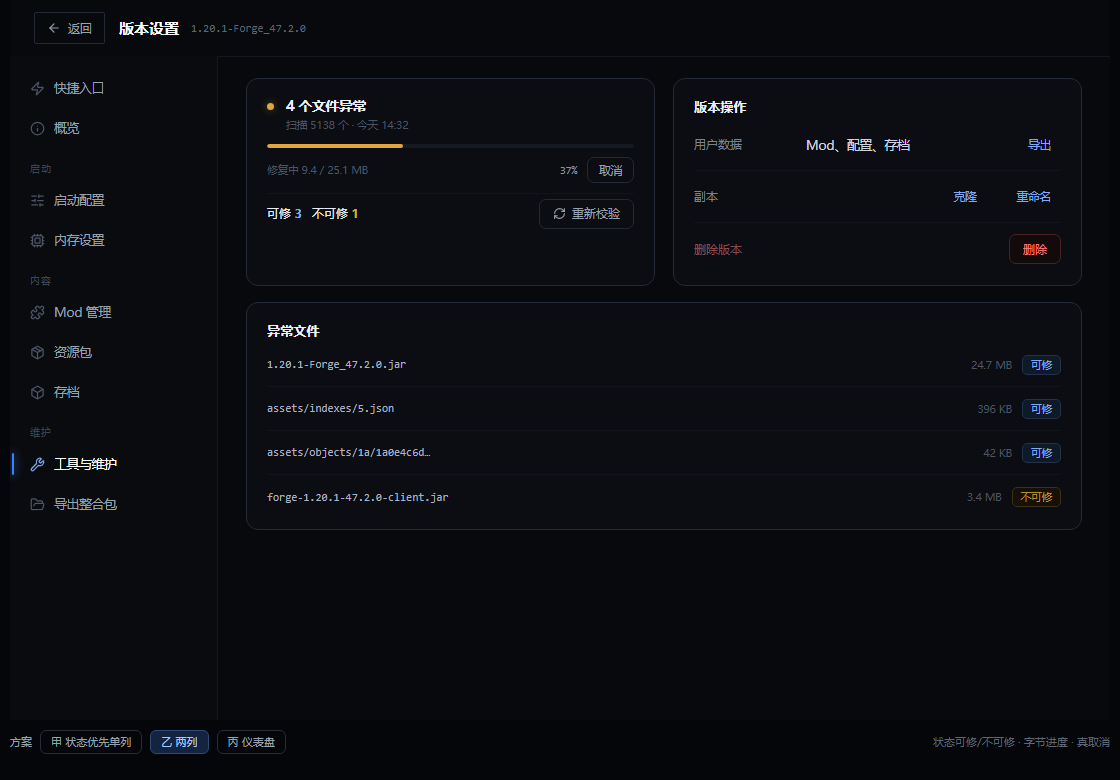
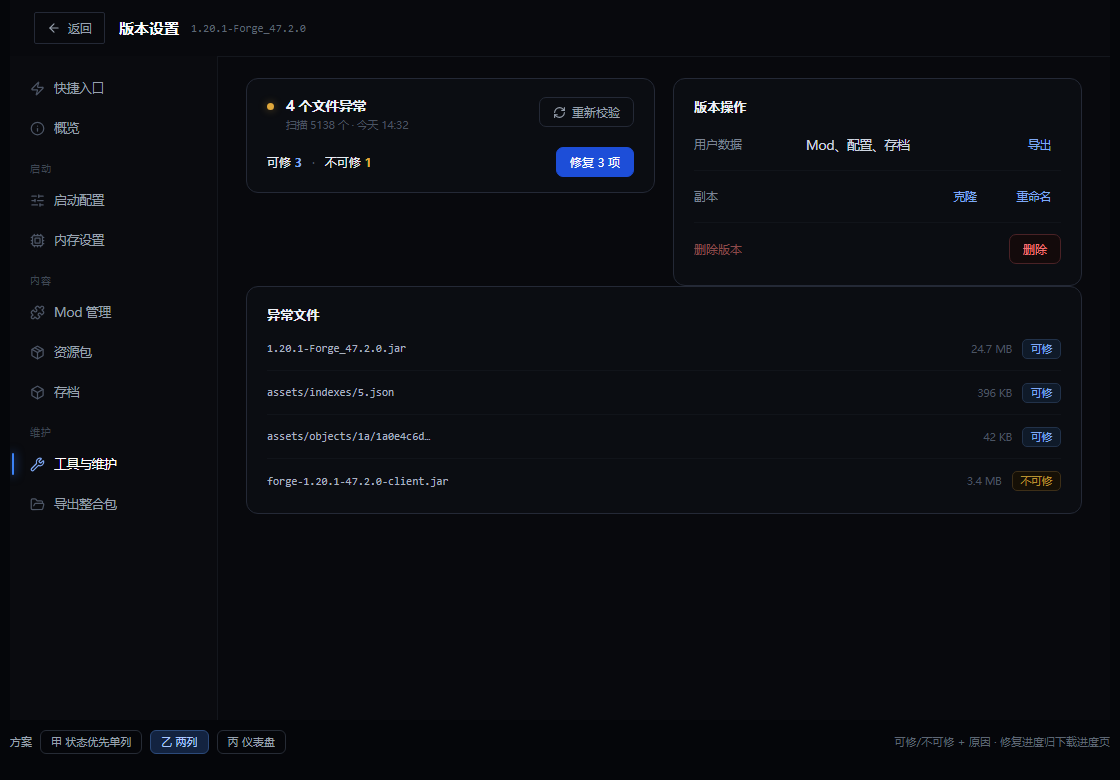
design(vs): 工具与维护页不画修复进度——进度归下载进度页，本页只留状态、异常清单与动作

diff --git a/design/vs-page/tools.html b/design/vs-page/tools.html
@@ -113,9 +113,7 @@ button{font:inherit;color:inherit;background:none;border:0;cursor:pointer;text-a
 .btn.danger{border-color:#4a2226;color:#f07474;background:#130a0b}
 .btn.danger:hover{background:#1d0f11;border-color:#5c2a30}
 .card{margin-bottom:16px}
-/* 乙案两列：卡片随列等高，边框底边对齐 */
-.pb .cols > div{display:flex;flex-direction:column}
-.pb .cols > div > .card{flex:1;margin-bottom:16px}
+
 .prog{margin:2px 0 10px}
 .pbar{height:4px;border-radius:2px;background:#151a22;overflow:hidden}
 .pbar i{display:block;height:100%;border-radius:2px;background:var(--accent);transition:width .2s}
@@ -211,14 +209,7 @@ button{font:inherit;color:inherit;background:none;border:0;cursor:pointer;text-a
       <span class="val">可修复 <b style="color:#7fa9f5">3</b></span>
       <span class="val" style="color:#4b5462">·</span>
       <span class="val">不可修复 <b style="color:#e0a83c">1</b></span>
-    </div>
-    <div class="prog">
-      <div class="pbar amber"><i style="width:37%"></i></div>
-      <div class="prog-meta">
-        <span>9.4 MB / 25.1 MB</span>
-        <span class="mono">37%</span>
-        <button class="btn mini">取消</button>
-      </div>
+      <button class="btn primary" style="margin-left:auto">修复 3 项</button>
     </div>
   </div>
 
@@ -245,7 +236,7 @@ button{font:inherit;color:inherit;background:none;border:0;cursor:pointer;text-a
 </div></div>
 
 <div class="pn pb"><div class="scroll">
-  <div class="cols" style="align-items:stretch">
+  <div class="cols">
     <div>
       <div class="card">
         <div class="shd">
@@ -254,22 +245,16 @@ button{font:inherit;color:inherit;background:none;border:0;cursor:pointer;text-a
             <div class="shd-1">4 个文件异常</div>
             <div class="shd-2">扫描 5138 个 · 今天 14:32</div>
           </div>
-        </div>
-        <div class="prog">
-          <div class="pbar amber"><i style="width:37%"></i></div>
-          <div class="prog-meta">
-            <span>修复中 9.4 / 25.1 MB</span>
-            <span class="mono">37%</span>
-            <button class="btn mini">取消</button>
-          </div>
-        </div>
-        <div class="pb-cap" style="border-top:1px solid #11141a">
-          <span class="val">可修 <b style="color:#7fa9f5">3</b></span>
-          <span class="val">不可修 <b style="color:#e0a83c">1</b></span>
-          <button class="btn" style="margin-left:auto"><svg class="i" viewBox="0 0 24 24" fill="none" stroke="currentColor" stroke-width="2" stroke-linecap="round" stroke-linejoin="round"><path d="M3 12a9 9 0 0 1 9-9 9.75 9.75 0 0 1 6.74 2.74L21 8" />
+          <button class="btn"><svg class="i" viewBox="0 0 24 24" fill="none" stroke="currentColor" stroke-width="2" stroke-linecap="round" stroke-linejoin="round"><path d="M3 12a9 9 0 0 1 9-9 9.75 9.75 0 0 1 6.74 2.74L21 8" />
   <path d="M21 3v5h-5" />
   <path d="M21 12a9 9 0 0 1-9 9 9.75 9.75 0 0 1-6.74-2.74L3 16" />
   <path d="M8 16H3v5" /></svg>重新校验</button>
+        </div>
+        <div class="pb-cap">
+          <span class="val">可修 <b style="color:#7fa9f5">3</b></span>
+          <span class="val" style="color:#4b5462">·</span>
+          <span class="val">不可修 <b style="color:#e0a83c">1</b></span>
+          <button class="btn primary" style="margin-left:auto">修复 3 项</button>
         </div>
       </div>
 
@@ -299,23 +284,15 @@ button{font:inherit;color:inherit;background:none;border:0;cursor:pointer;text-a
   <div class="stats">
     <div class="stat"><div class="n">5138</div><div class="l">已扫描文件</div></div>
     <div class="stat"><div class="n" style="color:#7fa9f5">3</div><div class="l">可修复</div></div>
-    <div class="stat alert"><div class="n">1</div><div class="l">不可修复</div></div>
+    <div class="stat alert"><div class="n" style="color:#e0a83c">1</div><div class="l">不可修复</div></div>
   </div>
 
   <div class="card">
-    <div class="ch">修复</div>
-    <div class="prog" style="margin:6px 0 2px">
-      <div class="pbar amber"><i style="width:37%"></i></div>
-      <div class="prog-meta">
-        <span>9.4 MB / 25.1 MB</span>
-        <span class="mono">37%</span>
-        <button class="btn mini">取消</button>
-      </div>
+    <div class="ch" style="display:flex;align-items:center;padding-right:0">异常文件
+      <span style="flex:1"></span>
+      <button class="btn mini">重新校验</button>
+      <button class="btn mini primary" style="margin-left:8px">修复 3 项</button>
     </div>
-  </div>
-
-  <div class="card">
-    <div class="ch">异常文件</div>
     <table class="tbl">
       <tr><th style="width:56%">文件</th><th style="width:18%">大小</th><th style="width:26%">状态</th></tr>
       <tr><td class="p">versions/…/1.20.1-Forge_47.2.0.jar</td><td class="n">24.7 MB</td><td><span class="badge">可修</span></td></tr>
@@ -340,14 +317,13 @@ button{font:inherit;color:inherit;background:none;border:0;cursor:pointer;text-a
   </div>
 </div>
 
-
 <div class="tools">
   <b>方案</b>
   <button class="on" data-v="a">甲 状态优先单列</button>
   <button data-v="b">乙 两列</button>
   <button data-v="c">丙 仪表盘</button>
   <span class="sp"></span>
-  <span>状态可修/不可修 · 字节进度 · 真取消</span>
+  <span>可修/不可修 + 原因 · 修复进度归下载进度页</span>
 </div>
 
 <script>
